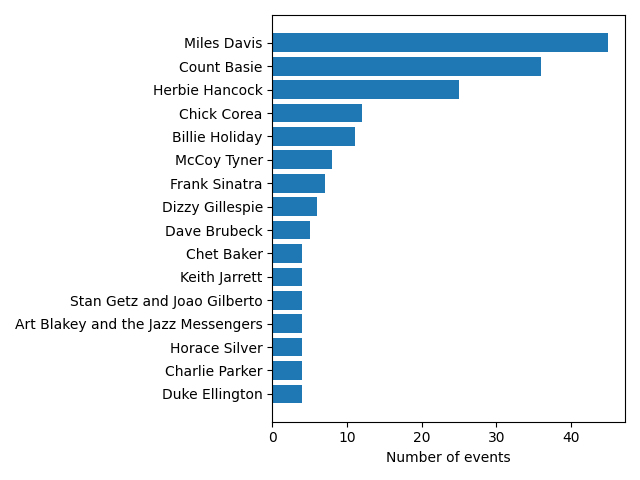
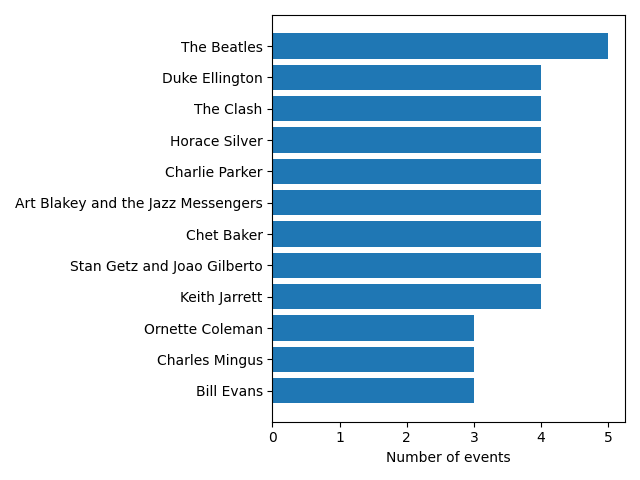
final version maybe

diff --git a/main.py b/main.py
@@ -1,8 +1,12 @@
 """main script"""
 
+import requests
+import numpy as np
 import pandas as pd
 import matplotlib.pyplot as plt
 import time
+from tqdm import tqdm
+from PIL import Image
 from my_packages import web_logger, api_logger, save_data, db_config
 
 # define header for HTTP request
@@ -33,17 +37,19 @@ my_class.add_artists(artists)
 
 print('Getting artists from the database...')
 
-artist_table = my_class.get_artists()
+artist_list = my_class.get_artists()
 
 # for each artist, fetch the events from the API and save them together with the artist id
 
 print('Fetching events from the API and adding them to the database...')
 
-for _, row in artist_table.iterrows():
+# add progress bar, access the df rows accordingly
+for i in tqdm(range(artist_list.shape[0])):
+    row = artist_list.iloc[i]
     # set delay in HTTP requests to prevent getting blocked, musicbrainz API limit is 1 request per second
-    time.sleep(2)
+    time.sleep(1.1)
 
-    events = api_logger.api_events(row['id'], row['name'], headers=headers)
+    events = api_logger.api_events(int(row.iloc[0]), row.iloc[1], headers=headers)
 
     my_class.add_events(events)
 
@@ -58,11 +64,18 @@ df_sorted = df.sort_values(by=['event_count'])
 
 artist_name = input('Enter artist name: ')
 
-df = my_class.get_event_by_artist(artist_name)
+artist_events = my_class.get_event_by_artist(artist_name)
+
+artist_img = my_class.get_artist_image(artist_name)
 
 pd.set_option('display.max_colwidth', None)
 
-print(df)
+if isinstance(artist_events, pd.DataFrame):
+    print(artist_events)
+
+if artist_img:
+    with Image.open(requests.get(artist_img[0], stream=True).raw) as img:
+        img.save(f'{artist_name}.png')
 
 # close connection
 
@@ -74,17 +87,16 @@ my_class.close_connection()
 
 print('Plotting...')
 
-plt.barh(y=df_sorted['name'][:16], width=df_sorted['event_count'][:16])
-plt.xlabel('Number of events')
-plt.tight_layout()
-plt.savefig('event_count_1.png')
-plt.close()
+df_list = np.array_split(df_sorted, 5)
+count = 1
+for i in df_list:
 
-plt.barh(y=df_sorted['name'][16:], width=df_sorted['event_count'][16:])
-plt.xlabel('Number of events')
-plt.tight_layout()
-plt.savefig('event_count_2.png')
-plt.close()
+    plt.barh(y=i['name'], width=i['event_count'])
+    plt.xlabel('Number of events')
+    plt.tight_layout()
+    plt.savefig(f'event_count_{count}.png')
+    plt.close()
+    count += 1
 
 # save to csv
 

diff --git a/my_packages/web_logger.py b/my_packages/web_logger.py
@@ -3,10 +3,12 @@ from bs4 import BeautifulSoup
 
 def web_scrape(headers):
 
-    url = 'https://jazzfuel.com/best-jazz-albums/'
+    artists = []
+
+    url_jazz = 'https://jazzfuel.com/best-jazz-albums/'
 
     try:
-        response = requests.get(url, headers=headers)
+        response = requests.get(url_jazz, headers=headers)
 
         if response.status_code == 200:
             # Parsing the HTML
@@ -15,7 +17,6 @@ def web_scrape(headers):
             div = soup.body.find('div', class_='site grid-container container hfeed')
             article = div.find('div', class_='inside-article')
             content = article.find('div', class_='entry-content')
-            artists = []
             for val in content.findAll('h2'):
                 rm_enum = val.text.split('. ', maxsplit=1)
                 if len(rm_enum) == 1:  # unwanted h2 element not belonging to the list
@@ -24,13 +25,38 @@ def web_scrape(headers):
                 artists.append(rm_colon[0])
 
             artists_set = sorted(list(set(artists)))
-            artists_tup = [(i, ) for i in artists_set]
+            img = ['-' for _ in artists_set]
+
+        else:
+            raise Exception(f'ERROR: Could not fetch jazz artists')
+
+    except Exception as e:
+        print(e)
+
+    url_rock = 'https://www.forbes.com/sites/entertainment/article/best-rock-bands/'
+
+    try:
+        response = requests.get(url_rock, headers=headers)
+
+        if response.status_code == 200:
+            soup = BeautifulSoup(response.text, 'html.parser')
+
+            div = soup.body.find('div', class_='article-body fs-article fs-responsive-text current-article')
+            for val in div.findAll('h3')[:32]:
+                rm_enum = val.text.split('. ', maxsplit=1)
+                if len(rm_enum) == 1:
+                    continue
+                artists_set.append(rm_enum[1].strip())
+
+            img_list = div.findAll('figure')[1:31]
+            for img_ele in img_list:
+                img.append(img_ele.find('progressive-image')['src'])
+
+            artists_tup = list(zip(artists_set, img))
             return artists_tup
 
         else:
-            print(f'ERROR: Connection unsuccessful: {response.status_code}')
-
-        return
+            raise Exception(f'ERROR: Could not fetch rock artists')
 
     except Exception as e:
-        print(f'ERROR: {e}')
+        print(e)

diff --git a/test/test_save_data.py b/test/test_save_data.py
@@ -28,7 +28,7 @@ class TestMBPostgres(unittest.TestCase):
     def test_add_get_artists(self):
         with self.assertRaises(save_data.DatabaseError):
             self.db_class.get_artists()
-        self.db_class.add_artists([('Post Melone', ), ('Ayran Grande', )])
+        self.db_class.add_artists([('Post Melone', '-'), ('Ayran Grande', '-')])
         data = {'id': [1, 2], 'name': ['Post Melone', 'Ayran Grande']}
         df = pd.DataFrame(data)
         self.assertTrue(self.db_class.get_artists().equals(df))
@@ -36,7 +36,7 @@ class TestMBPostgres(unittest.TestCase):
     def test_add_get_events(self):
         with self.assertRaises(save_data.DatabaseError):
             self.db_class.get_events()
-        self.db_class.add_artists([('Post Melone',), ('Ayran Grande',)])
+        self.db_class.add_artists([('Post Melone', '-'), ('Ayran Grande', '-')])
         self.db_class.add_events([(1, 'The Best Festival', '2050-07-12', '2052-03-11')])
         data = {'id': [1], 'artist_id': [1], 'event_name': ['The Best Festival'],
                 'begin_time': ['2050-07-12'], 'end_time': ['2052-03-11']}
@@ -47,11 +47,17 @@ class TestMBPostgres(unittest.TestCase):
     def test_get_event_count(self):
         with self.assertRaises(save_data.DatabaseError):
             self.db_class.get_event_count()
-        self.db_class.add_artists([('Post Melone',), ('Ayran Grande',)])
+        self.db_class.add_artists([('Post Melone', '-'), ('Ayran Grande', '-')])
         self.db_class.add_events([(1, 'The Best Festival', '2050-07-12', '2052-03-11')])
         data = {'name': ['Post Melone'], 'event_count': [1]}
         df = pd.DataFrame(data)
         self.assertTrue(self.db_class.get_event_count().equals(df))
+
+    def test_get_artist_image(self):
+        self.assertIsNone(self.db_class.get_artist_image('Post Melone'))
+        self.db_class.add_artists([('Post Melone', 'https://www.google.com')])
+        self.assertEqual(self.db_class.get_artist_image('Post Melone'),
+                         ('https://www.google.com', ))
 
 if __name__ == '__main__':
     unittest.main()

diff --git a/my_packages/save_data.py b/my_packages/save_data.py
@@ -33,8 +33,9 @@ class MBPostgres:
             self.cur.execute('''
             CREATE TABLE IF NOT EXISTS artists (
                 id SERIAL PRIMARY KEY,
-                name VARCHAR(255) NOT NULL)
-                ''')
+                name VARCHAR(255) NOT NULL,
+                img TEXT
+                )''')
             self.cur.execute('''
             CREATE TABLE IF NOT EXISTS events (
                 id SERIAL PRIMARY KEY,
@@ -50,8 +51,8 @@ class MBPostgres:
     def add_artists(self, artists):
         try:
             query = '''
-            INSERT INTO artists (name)
-            VALUES (%s)'''
+            INSERT INTO artists (name, img)
+            VALUES (%s, %s)'''
             self.cur.executemany(query, artists)
 
         except psycopg2.Error as e:
@@ -69,7 +70,7 @@ class MBPostgres:
 
     def get_artists(self):
         try:
-            self.cur.execute('SELECT * FROM artists')
+            self.cur.execute('SELECT id, name FROM artists')
             rows = self.cur.fetchall()
             if not rows:
                 raise DatabaseError(f'No artists found')
@@ -77,6 +78,17 @@ class MBPostgres:
             return df
         except psycopg2.Error as e:
             print(f'Error while getting artists: {e}')
+
+    def get_artist_image(self, artist_name):
+        try:
+            self.cur.execute('SELECT img FROM artists WHERE name ILIKE %s', (artist_name,))
+            img = self.cur.fetchone()
+            if img == ('-', ):
+                print(f'No image available for {artist_name}')
+                return
+            return img
+        except psycopg2.Error as e:
+            print(f'Error while getting artist image: {e}')
 
     def get_events(self):
         try:

diff --git a/my_packages/api_logger.py b/my_packages/api_logger.py
@@ -20,9 +20,26 @@ def api_events(num, artist, headers):
         if response.status_code == 200:
 
             event_json = response.json()['events']
+
             event_name = [i['name'] for i in event_json]
-            event_begin = [i['life-span']['begin'] for i in event_json]
-            event_end = [i['life-span']['end'] for i in event_json]
+
+            event_begin = []
+            event_end = []
+            # really ugly, do not judge, for some reason <if i['life-span']>, <if i['life-span']['end']> do NOT work
+            for i in event_json:
+                if 'life-span' not in i:
+                    event_begin.append('-')
+                    event_end.append('-')
+                else:
+                    if 'begin' not in i['life-span']:
+                        event_begin.append('-')
+                    else:
+                        event_begin.append(i['life-span']['begin'])
+                    if 'end' not in i['life-span']:
+                        event_end.append('-')
+                    else:
+                        event_end.append(i['life-span']['end'])
+
             num_list = [num for _ in range(len(event_json))]
             events_zip = zip(num_list, event_name, event_begin, event_end)
             events = (i for i in events_zip)

diff --git a/README.md b/README.md
@@ -7,7 +7,8 @@ The API then looks up all events linked to them, be it festivals, concerts and t
 
 The artists and the events are then saved in their respective tables with PostgreSQL.
 
-The user is asked to provide an artist name, in order to get the events.
+The user is asked to provide an artist name, in order to get the events and an image, if there is one.
+The image is saved into the project folder.
 
 The program outputs a csv file with the event count for each artist, as well as a graphical representation,
 split into two png files.
